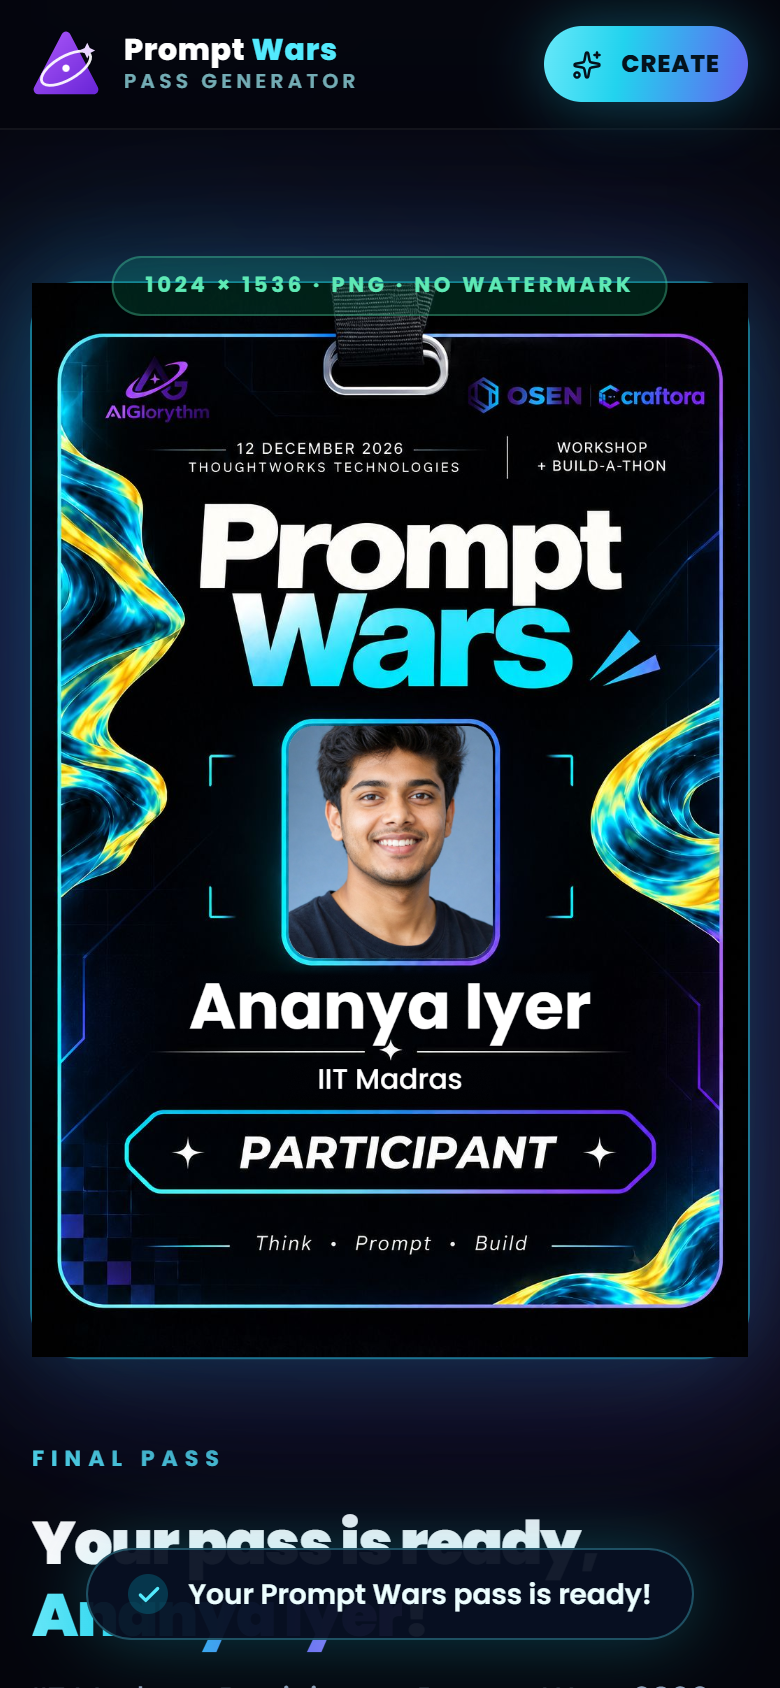
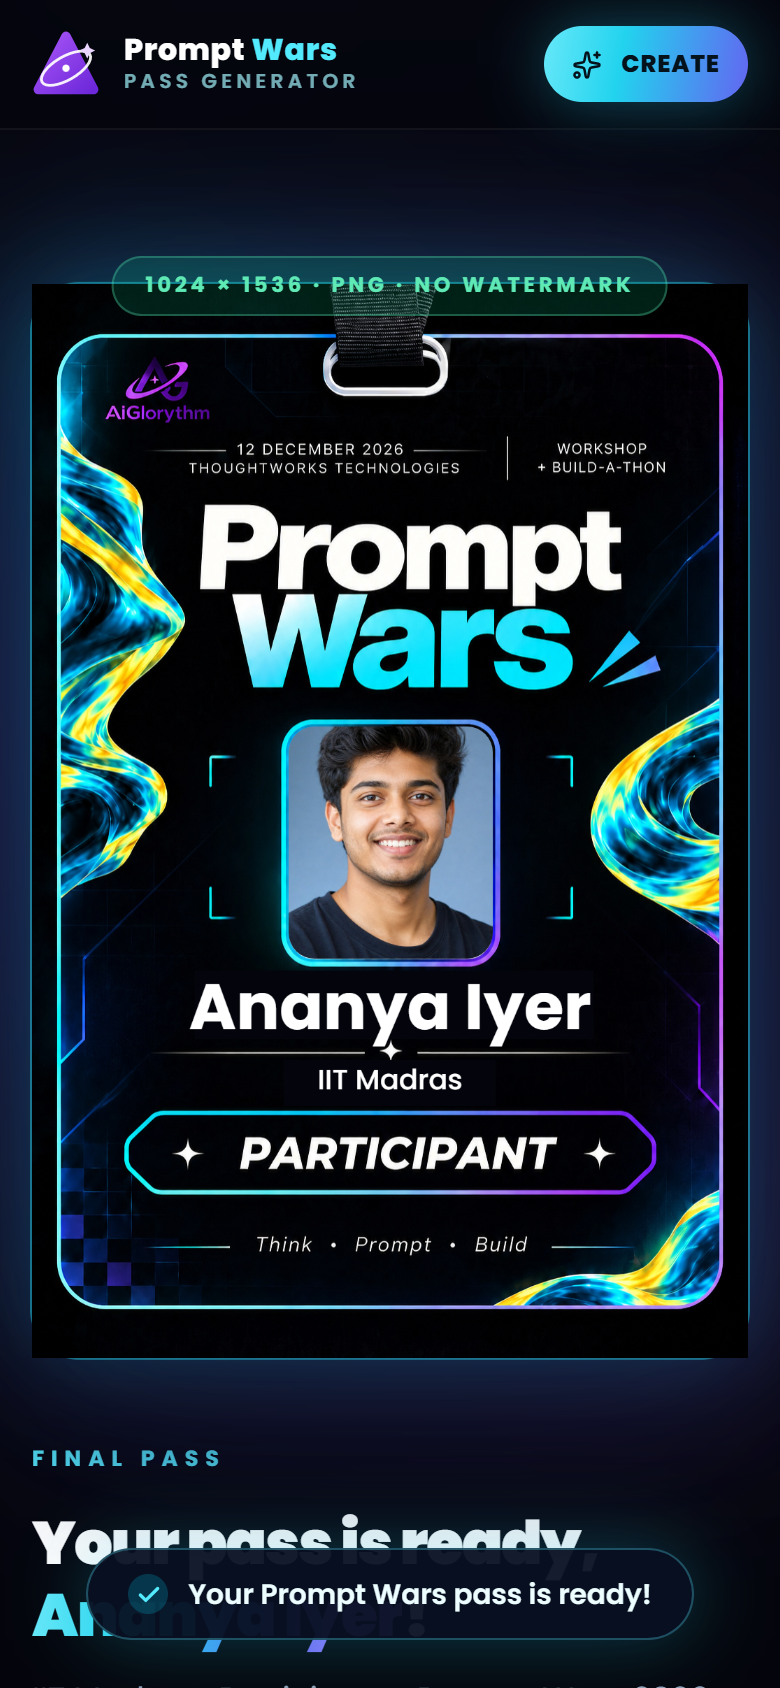
l

diff --git a/prompt-wars-pass/src/lib/drawPass.ts b/prompt-wars-pass/src/lib/drawPass.ts
@@ -156,6 +156,11 @@ function drawNameCollege(ctx: CanvasRenderingContext2D, data: PassRenderData) {
   const collegeText = data.college.trim();
   const showPlaceholders = !!data.showPlaceholders;
 
+  // Cover "Your Name" placeholder rectangle with background matching the badge
+  // Rectangle measured from the original artwork where placeholder text was removed
+  ctx.fillStyle = '#04050c';
+  ctx.fillRect(233, 982, 570, 98);
+
   const name = nameText || (showPlaceholders ? PLACEHOLDER_NAME : '');
   if (name) {
     const size = fitFontSize(ctx, name, NAME.maxWidth, NAME.maxSize, NAME.minSize, NAME.weight);
@@ -167,6 +172,11 @@ function drawNameCollege(ctx: CanvasRenderingContext2D, data: PassRenderData) {
     ctx.fillText(name, PASS_WIDTH / 2, NAME.baseline, NAME.maxWidth);
     ctx.restore();
   }
+
+  // Cover "Your College" placeholder rectangle with background matching the badge
+  // Rectangle measured from the original artwork where placeholder text was removed
+  ctx.fillStyle = '#04050c';
+  ctx.fillRect(360, 1110, 303, 66);
 
   const college = collegeText || (showPlaceholders ? PLACEHOLDER_COLLEGE : '');
   if (college) {
